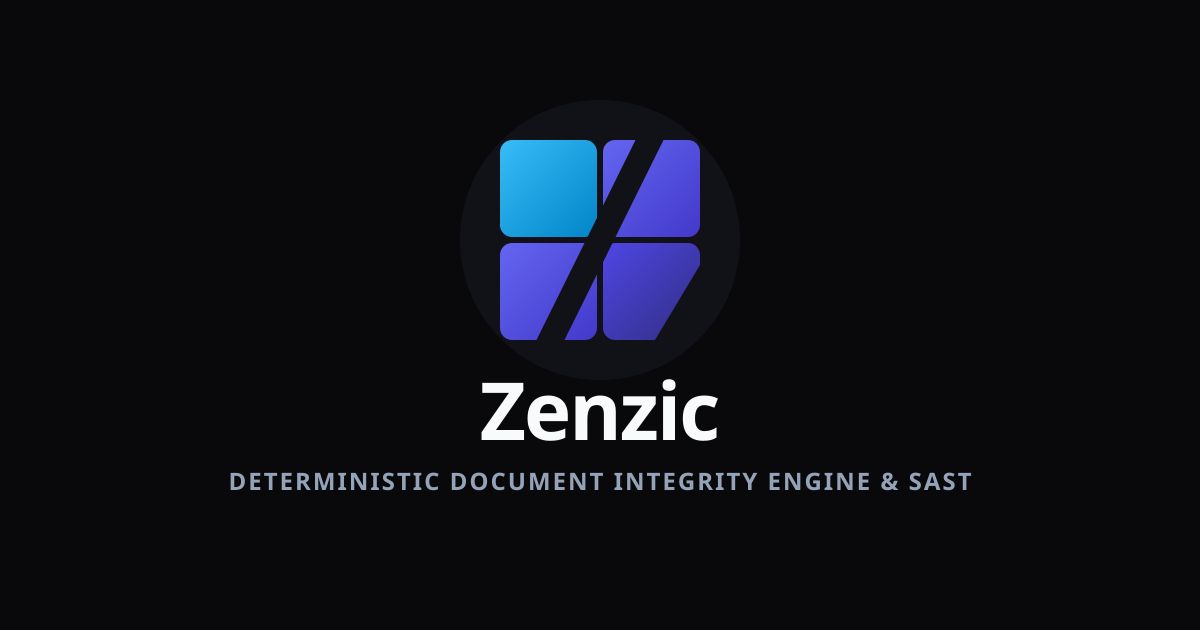
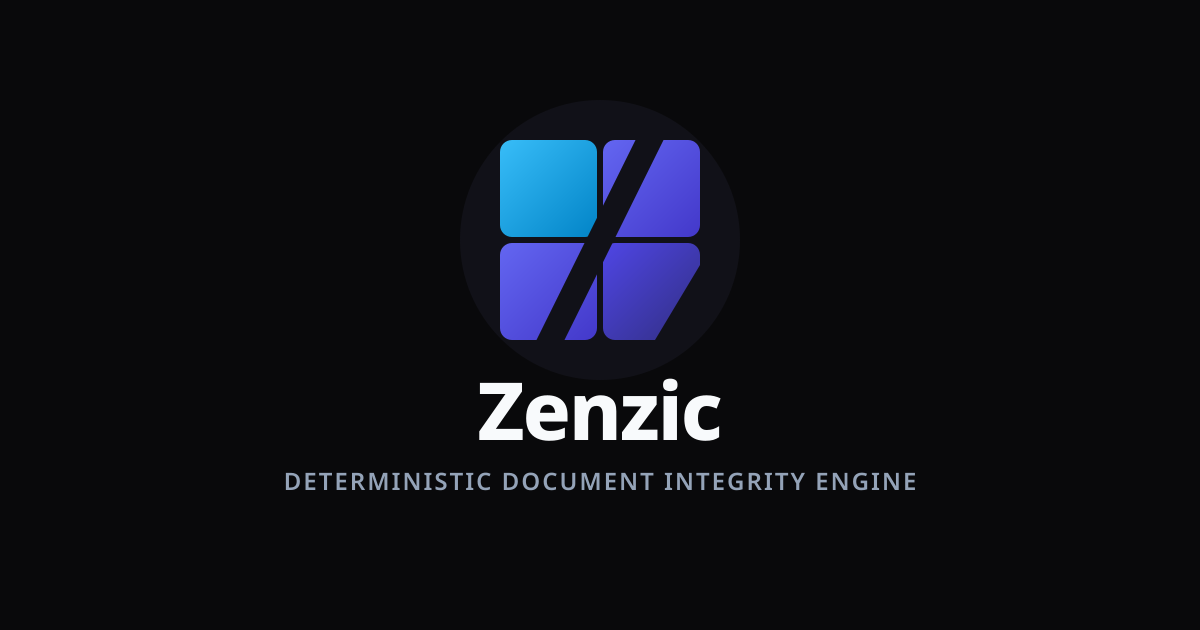
docs: realign product positioning and remove SAST terminology

Changed region(s): [[0.185, 0.754, 0.8325, 0.7841], [0.4008, 0.6032, 0.5858, 0.6937]]

diff --git a/overrides/partials/homepage/hero.html b/overrides/partials/homepage/hero.html
@@ -12,7 +12,7 @@
 
     <h1 class="text-3xl sm:text-4xl md:text-5xl lg:text-6xl font-bold tracking-tight leading-[1.05] mb-8 max-w-4xl">
       <span class="zz-gradient-text">Deterministic Document Integrity</span><br>
-      <span class="dark:text-zinc-500 text-zinc-400">and SAST for Technical Documentation.</span>
+      <span class="dark:text-zinc-500 text-zinc-400">Engine for Technical Documentation.</span>
     </h1>
 
     <p class="text-base md:text-lg dark:text-zinc-400 text-zinc-500 max-w-2xl leading-relaxed mb-12">

diff --git a/tests/test_protocol_evolution.py b/tests/test_protocol_evolution.py
@@ -140,8 +140,8 @@ class TestFrontmatterExtraction:
         assert extract_frontmatter_unlisted(content) is False
 
     def test_tags_inline(self) -> None:
-        content = "---\ntags: [python, docs, sast]\n---\n\nBody"
-        assert extract_frontmatter_tags(content) == ["python", "docs", "sast"]
+        content = "---\ntags: [python, docs, integrity]\n---\n\nBody"
+        assert extract_frontmatter_tags(content) == ["python", "docs", "integrity"]
 
     def test_tags_flow(self) -> None:
         content = "---\ntags:\n- python\n- docs\n---\n\nBody"

diff --git a/docs/blog/posts/2026-08-08-markdown-is-production-code-why-we-built-zenzic.md b/docs/blog/posts/2026-08-08-markdown-is-production-code-why-we-built-zenzic.md
@@ -30,7 +30,7 @@ We decided that this was the wrong model.
 
 **We built Zenzic to treat documentation integrity as a property that can be tested before a change reaches the main branch.**
 
-Zenzic is a deterministic document-integrity engine and SAST for Markdown/MDX graphs. It analyzes raw documentation source, builds a model of its relationships, and reports structural, quality, and security findings with file-and-line precision.
+Zenzic is a deterministic document-integrity engine for Markdown/MDX graphs. It analyzes raw documentation source, builds a model of its relationships, and reports structural, quality, and security findings with file-and-line precision.
 
 Our objective is operational:
 
@@ -57,7 +57,7 @@ We decided that this was the wrong model.
 
 **We built Zenzic to treat documentation integrity as a property that can be tested before a change reaches the main branch.**
 
-Zenzic is a deterministic document-integrity engine and SAST for Markdown/MDX graphs. It analyzes raw documentation source, builds a model of its relationships, and reports structural, quality, and security findings with file-and-line precision.
+Zenzic is a deterministic document-integrity engine for Markdown/MDX graphs. It analyzes raw documentation source, builds a model of its relationships, and reports structural, quality, and security findings with file-and-line precision.
 
 Our objective is operational:
 
@@ -757,6 +757,6 @@ License: Apache-2.0
 
 References
 
-[1] Zenzic — Deterministic Document Integrity Engine & SAST - https://zenzic.dev/
+[1] Zenzic — Deterministic Document Integrity Engine - https://zenzic.dev/
 
 [2] Zenzic — Why Zenzic? - https://zenzic.dev/explanation/why-zenzic/

diff --git a/ROADMAP.md b/ROADMAP.md
@@ -7,7 +7,7 @@ SPDX-License-Identifier: Apache-2.0
 
 > **Governance Note (ADR-020):** This document is a root governance file. It is strictly **English-Only**. It must not be translated or mirrored in the `i18n/` directory.
 
-This document describes the planned milestone trajectory for Zenzic, the **Deterministic Document Integrity Engine and SAST for Markdown/MDX graphs**.
+This document describes the planned milestone trajectory for Zenzic, the **Deterministic Document Integrity Engine for Markdown/MDX graphs**.
 Dates are targets, not commitments. All milestones are subject to revision.
 
 For the current release history and completed milestones (up to `v0.26.x`), see [CHANGELOG.md](CHANGELOG.md).
@@ -18,7 +18,7 @@ For the current release history and completed milestones (up to `v0.26.x`), see 
 
 Before advancing the core feature set, the following infrastructural and validation tasks are prioritized:
 
-- **Empirical Benchmark Suite:** Audit large-scale open-source repositories (e.g., Kubernetes, Docusaurus) to empirically prove $O(N)$ complexity, sub-50ms latency, and SAST capabilities against real-world documentation graphs.
+- **Empirical Benchmark Suite:** Audit large-scale open-source repositories (e.g., Kubernetes, Docusaurus) to empirically prove $O(N)$ complexity, sub-50ms latency, and static analysis capabilities against real-world documentation graphs.
 - **OIDC/Entra ID CI/CD Integration:** Resolve VS Code Marketplace publishing technical debt by transitioning from legacy Personal Access Tokens (PAT) to Workload Identity Federation before the December 2026 deprecation deadline.
 
 ---

diff --git a/CONTRIBUTING.md b/CONTRIBUTING.md
@@ -7,7 +7,7 @@ SPDX-License-Identifier: Apache-2.0
 
 Thank you for your interest in contributing to Zenzic Core!
 
-Zenzic is a Deterministic Document Integrity Engine and SAST for Markdown/MDX graphs.
+Zenzic is a Deterministic Document Integrity Engine for Markdown/MDX graphs.
 We welcome contributions that improve reliability, performance, adapter accuracy, or usability of the Python Core engine and CLI.
 
 ## Multi-Repo Ecosystem Architecture
@@ -31,7 +31,7 @@ Zenzic is structured across three independent, dedicated repositories:
 
 Before proposing rule or core engine changes, contributors must validate impact against the live code registry and tier ownership model:
 
-- **Tier Ownership Model:** Findings are grouped into Core (Z1xx), Security/SAST (Z2xx), and Governance/Structure (Z3xx–Z6xx) domains. Keep changes in the correct band.
+- **Tier Ownership Model:** Findings are grouped into Core (Z1xx), Security (Z2xx), and Governance/Structure (Z3xx–Z6xx) domains. Keep changes in the correct band.
 - **Frozen Contract Awareness:** Do not alter immutable surfaces (`FROZEN_CODES`, `NON_SUPPRESSIBLE_CODES`, `PLUGIN_FORBIDDEN_EXITS`) without an explicit architecture decision record (ADR).
 - **Inspect-First Workflow:** Treat `zenzic inspect codes` as the source of truth before editing examples, checks tables, or changelog narratives.
 

diff --git a/docs/blog/posts/2026-06-03-algorithmic-complexity-and-redos-prevention.md b/docs/blog/posts/2026-06-03-algorithmic-complexity-and-redos-prevention.md
@@ -9,7 +9,7 @@ description: "Why we banned Python's regex module: The algorithm behind Zenzic"
 <!-- SPDX-License-Identifier: Apache-2.0 -->
 
 !!! abstract "Architectural Update"
-    *Historical Note:* This post refers to Zenzic as a "linter". As the system evolved, its capabilities expanded far beyond surface-level linting. Zenzic is now officially classified as a **Deterministic Document Integrity Engine and SAST for Markdown/MDX graphs**. Read the [latest documentation](https://zenzic.dev/) for current architectural capabilities.
+    *Historical Note:* This post refers to Zenzic as a "linter". As the system evolved, its capabilities expanded far beyond surface-level linting. Zenzic is now officially classified as a **Deterministic Document Integrity Engine for Markdown/MDX graphs**. Read the [latest documentation](https://zenzic.dev/) for current architectural capabilities.
 
 In modern CI/CD pipelines, security and performance should be structurally bounded, not just empirically observed. Traditional documentation linters and credential scanners often fail when operating at scale or under adversarial conditions. The primary failure mode is **ReDoS (Regular Expression Denial of Service)**.
 

diff --git a/docs/blog/posts/2026-05-24-engineering-v080-deep-dive.md b/docs/blog/posts/2026-05-24-engineering-v080-deep-dive.md
@@ -9,7 +9,7 @@ description: "Engineering Deep Dive: v0.8.0 Architecture"
 <!-- SPDX-License-Identifier: Apache-2.0 -->
 
 !!! abstract "Architectural Update"
-    *Historical Note:* This post refers to Zenzic as a "linter". As the system evolved, its capabilities expanded far beyond surface-level linting. Zenzic is now officially classified as a **Deterministic Document Integrity Engine and SAST for Markdown/MDX graphs**. Read the [latest documentation](https://zenzic.dev/) for current architectural capabilities.
+    *Historical Note:* This post refers to Zenzic as a "linter". As the system evolved, its capabilities expanded far beyond surface-level linting. Zenzic is now officially classified as a **Deterministic Document Integrity Engine for Markdown/MDX graphs**. Read the [latest documentation](https://zenzic.dev/) for current architectural capabilities.
 
 Zenzic emerged as a systems response to a recurring pattern across code reviews and CI incidents: documentation quality pipelines were improving locally but degrading structurally over time. The pipeline was shipping checks, not guarantees — collecting signals, not preserving architecture.
 

diff --git a/docs/blog/posts/2026-06-09-auditing-the-auditors.md b/docs/blog/posts/2026-06-09-auditing-the-auditors.md
@@ -10,7 +10,7 @@ description: "Auditing the Auditors: Finding Documentation Defects with AST-Base
 <!-- SPDX-License-Identifier: Apache-2.0 -->
 
 !!! abstract "Architectural Update"
-    *Historical Note:* This post refers to Zenzic as a "linter". As the system evolved, its capabilities expanded far beyond surface-level linting. Zenzic is now officially classified as a **Deterministic Document Integrity Engine and SAST for Markdown/MDX graphs**. Read the [latest documentation](https://zenzic.dev/) for current architectural capabilities.
+    *Historical Note:* This post refers to Zenzic as a "linter". As the system evolved, its capabilities expanded far beyond surface-level linting. Zenzic is now officially classified as a **Deterministic Document Integrity Engine for Markdown/MDX graphs**. Read the [latest documentation](https://zenzic.dev/) for current architectural capabilities.
 
 To validate the parser and snippet-analysis capabilities of Zenzic, we needed a production-grade documentation corpus. We selected the official documentation repository of Zensical, a mature and actively maintained static site generator.
 

diff --git a/docs/blog/posts/2026-06-06-native-ci-integration-and-progressive-adoption.md b/docs/blog/posts/2026-06-06-native-ci-integration-and-progressive-adoption.md
@@ -10,7 +10,7 @@ description: "Zenzic v0.10.0: Async Engine, Native Annotations, and Progressive 
 <!-- SPDX-License-Identifier: Apache-2.0 -->
 
 !!! abstract "Architectural Update"
-    *Historical Note:* This post refers to Zenzic as a "linter". As the system evolved, its capabilities expanded far beyond surface-level linting. Zenzic is now officially classified as a **Deterministic Document Integrity Engine and SAST for Markdown/MDX graphs**. Read the [latest documentation](https://zenzic.dev/) for current architectural capabilities.
+    *Historical Note:* This post refers to Zenzic as a "linter". As the system evolved, its capabilities expanded far beyond surface-level linting. Zenzic is now officially classified as a **Deterministic Document Integrity Engine for Markdown/MDX graphs**. Read the [latest documentation](https://zenzic.dev/) for current architectural capabilities.
 
 Zenzic v0.10.0 introduces a massive performance upgrade with a new **Async Network Engine**, alongside two architectural changes designed strictly for the CI/CD pipeline: **Native GitHub Annotations** and **Destructive Rule Filtering**.
 

diff --git a/docs/explanation/why-zenzic.md b/docs/explanation/why-zenzic.md
@@ -9,7 +9,7 @@ description: "How Zenzic reduces documentation risk, removes manual QA loops, an
 
 # Why Zenzic — Risk Prevention and Deterministic Quality Gates
 
-Zenzic is a Deterministic Document Integrity Engine and SAST for Markdown/MDX graphs. It operates on raw source files — never the generated output — so it works with any build engine (MkDocs, Zensical, or others via the adapter system). It detects broken links, orphan pages, placeholder stubs, unused assets, and leaked credentials before the build runs.
+Zenzic is a Deterministic Document Integrity Engine for Markdown/MDX graphs. It operates on raw source files — never the generated output — so it works with any build engine (MkDocs, Zensical, or others via the adapter system). It detects broken links, orphan pages, placeholder stubs, unused assets, and leaked credentials before the build runs.
 
 Zenzic exists to prevent documentation defects from entering the main branch. The objective is
 operational: block regressions before release, reduce security exposure, and keep CI outcomes

diff --git a/docs/blog/posts/2026-05-27-terminal-ux-documentation-governance.md b/docs/blog/posts/2026-05-27-terminal-ux-documentation-governance.md
@@ -10,7 +10,7 @@ description: "Terminal UX as a Governance Interface: How Zenzic Renders Diagnost
 <!-- SPDX-License-Identifier: Apache-2.0 -->
 
 !!! abstract "Architectural Update"
-    *Historical Note:* This post refers to Zenzic as a "linter". As the system evolved, its capabilities expanded far beyond surface-level linting. Zenzic is now officially classified as a **Deterministic Document Integrity Engine and SAST for Markdown/MDX graphs**. Read the [latest documentation](https://zenzic.dev/) for current architectural capabilities.
+    *Historical Note:* This post refers to Zenzic as a "linter". As the system evolved, its capabilities expanded far beyond surface-level linting. Zenzic is now officially classified as a **Deterministic Document Integrity Engine for Markdown/MDX graphs**. Read the [latest documentation](https://zenzic.dev/) for current architectural capabilities.
 
 A linter reports violations within individual files. A governance engine verifies
 that a set of invariants holds across the entire document graph — and halts the

diff --git a/docs/index.md b/docs/index.md
@@ -1,12 +1,12 @@
 ---
 template: home.html
-title: "Zenzic — Deterministic Document Integrity Engine & SAST"
+title: "Zenzic — Deterministic Document Integrity Engine"
 hide:
   - navigation
   - toc
   - path
   - feedback
-description: "Zenzic is a deterministic document integrity engine and SAST for Markdown/MDX graphs. Detect broken links, credential leaks, and topological defects before merge."
+description: "Zenzic is a deterministic document integrity engine for Markdown/MDX graphs. Detect broken links, credential leaks, and topological defects before merge."
 ---
 
 <!-- SPDX-FileCopyrightText: 2026 PythonWoods <dev@pythonwoods.dev> -->
@@ -73,7 +73,7 @@ zenzic check all --update-baseline
 zenzic check all --baseline .zenzic-baseline.json
 ```
 
-### Documentation Security (SAST)
+### Documentation Security
 
 Zenzic treats documentation as a **security surface**. The tiered code model enforces a hard boundary between quality findings (suppressible, exit 1) and security findings (non-suppressible, exit 2/3):
 
